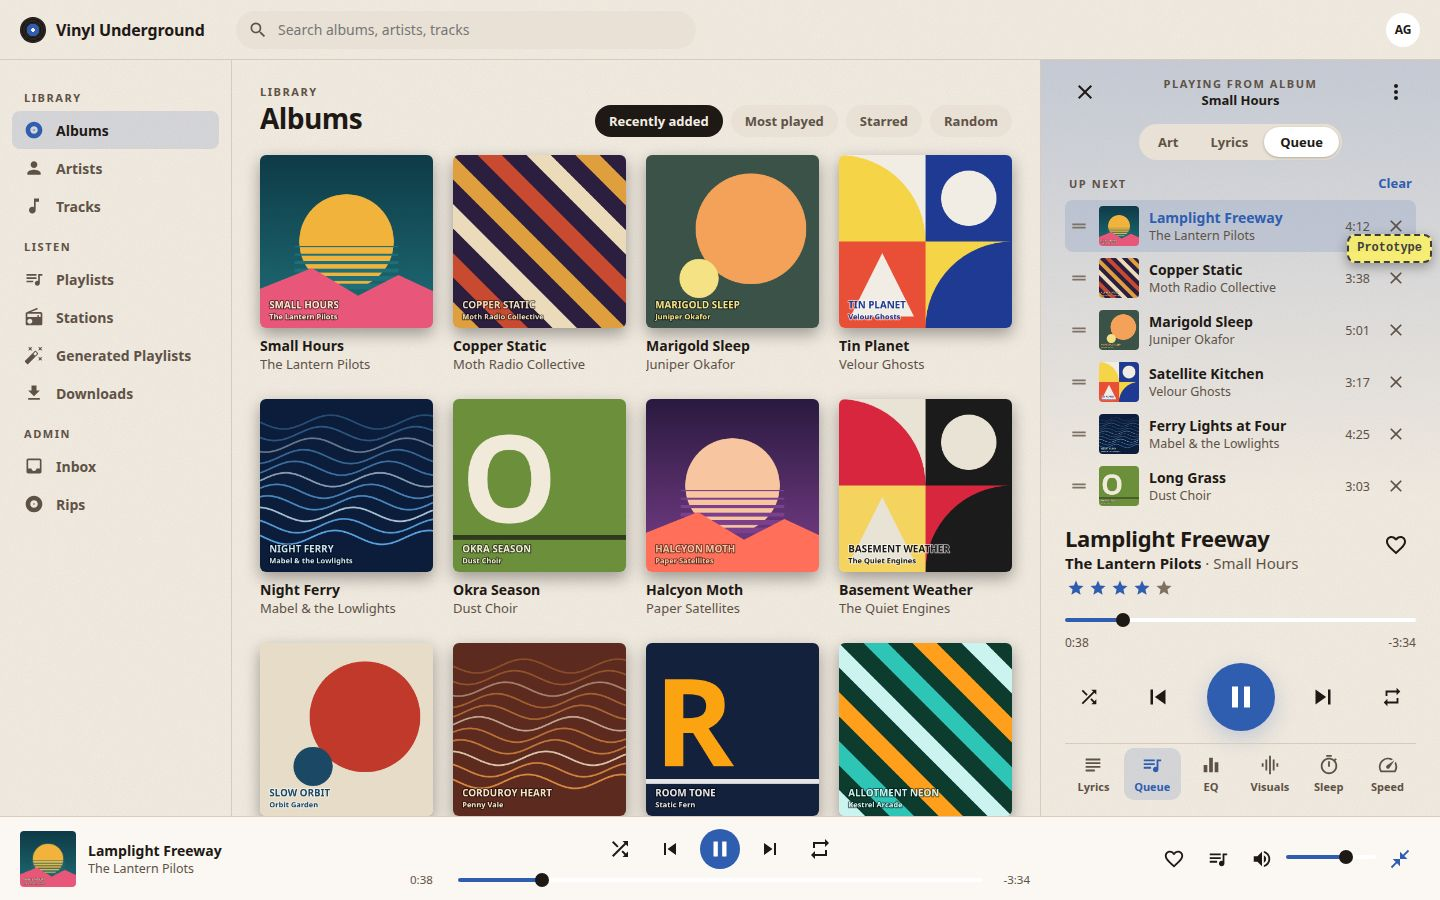
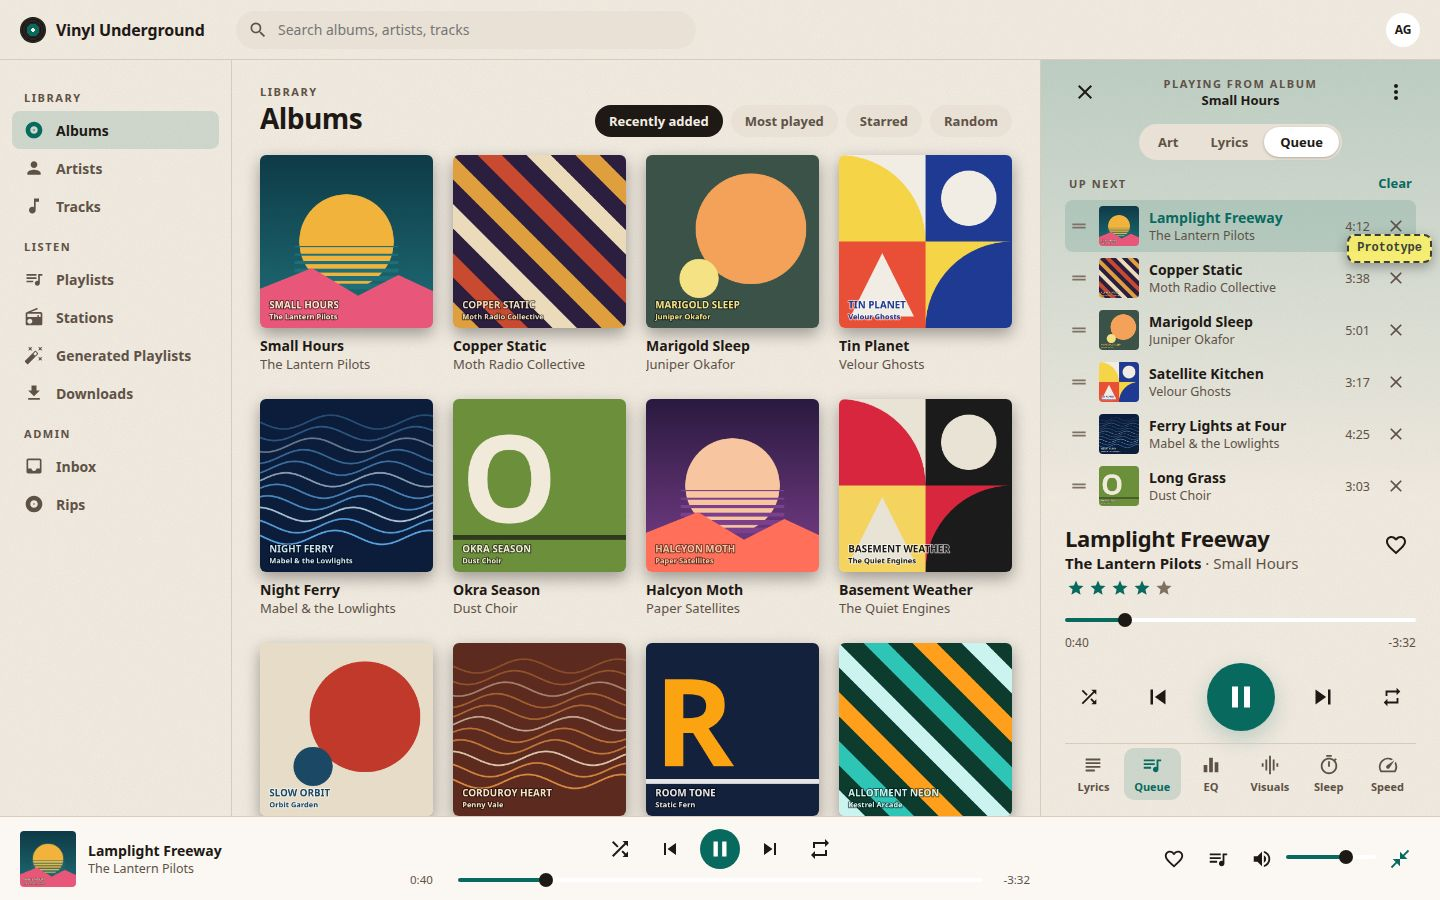
Make Teal the prototype's default accent
Teal (#3EC1B0 dark, #086A5F light) replaces Vermilion as the default,
chosen in review, and is now first in the swatches. Vermilion stays as
a choice. The README table and screenshots are updated.

diff --git a/prototypes/ui-refresh/app.js b/prototypes/ui-refresh/app.js
@@ -63,12 +63,13 @@
   // ---------- Palette ----------
   // Fixed accents: [dark-variant, light-variant]. Each value passes WCAG AA
   // (4.5:1) against its variant's background, and against its on-accent text.
+  // The first accent is the default.
   const ACCENTS = [
+    { id: 'teal', name: 'Teal', dark: '#3EC1B0', light: '#086A5F' },
     { id: 'vermilion', name: 'Vermilion', dark: '#FF5B2E', light: '#B0300F' },
     { id: 'amber', name: 'Amber', dark: '#FF9A1F', light: '#934E00' },
     { id: 'mustard', name: 'Mustard', dark: '#E2B53A', light: '#765A00' },
     { id: 'olive', name: 'Olive', dark: '#9DBB4E', light: '#4A6510' },
-    { id: 'teal', name: 'Teal', dark: '#3EC1B0', light: '#086A5F' },
     { id: 'denim', name: 'Denim', dark: '#6FA3F0', light: '#2F5DB0' },
     { id: 'plum', name: 'Plum', dark: '#C08BF0', light: '#7A3FB0' },
     { id: 'rose', name: 'Rose', dark: '#FF6F91', light: '#B42851' },
@@ -169,7 +170,7 @@
   const state = {
     theme: q.get('theme') === 'light' ? 'light' : 'dark',
     base: Object.prototype.hasOwnProperty.call(DARK_BASES, q.get('base')) ? q.get('base') : 'slate',
-    accent: ACCENTS.some((a) => a.id === q.get('accent')) || q.get('accent') === 'art' ? q.get('accent') : 'vermilion',
+    accent: ACCENTS.some((a) => a.id === q.get('accent')) || q.get('accent') === 'art' ? q.get('accent') : 'teal',
     frame: q.get('frame') === 'desktop' ? 'desktop' : 'phone',
     station: q.get('station') === '1',
     npOpen: q.get('np') !== '0',

diff --git a/prototypes/ui-refresh/styles.css b/prototypes/ui-refresh/styles.css
@@ -8,17 +8,17 @@
 @property --vu-accent {
   syntax: '<color>';
   inherits: true;
-  initial-value: #ff5b2e;
+  initial-value: #3ec1b0;
 }
 @property --vu-accent-soft {
   syntax: '<color>';
   inherits: true;
-  initial-value: rgba(255, 91, 46, 0.16);
+  initial-value: rgba(62, 193, 176, 0.16);
 }
 @property --vu-accent-glow {
   syntax: '<color>';
   inherits: true;
-  initial-value: rgba(255, 91, 46, 0.3);
+  initial-value: rgba(62, 193, 176, 0.3);
 }
 
 :root {
@@ -26,10 +26,10 @@
     Arial, sans-serif;
   --vu-radius: 12px;
   --vu-radius-sm: 6px;
-  --vu-accent: #ff5b2e;
+  --vu-accent: #3ec1b0;
   --vu-on-accent: #0f1216;
-  --vu-accent-soft: rgba(255, 91, 46, 0.16);
-  --vu-accent-glow: rgba(255, 91, 46, 0.3);
+  --vu-accent-soft: rgba(62, 193, 176, 0.16);
+  --vu-accent-glow: rgba(62, 193, 176, 0.3);
   /* "From album art" fades between covers rather than snapping */
   transition:
     --vu-accent 0.7s ease,

diff --git a/prototypes/ui-refresh/README.md b/prototypes/ui-refresh/README.md
@@ -93,11 +93,11 @@ on the cream background.
 
 | Accent                  | Dark      | On it     | vs bg  | Light     | On it     | vs bg  |
 | ----------------------- | --------- | --------- | ------ | --------- | --------- | ------ |
-| Vermilion **(default)** | `#FF5B2E` | `#0F1216` | 6.1:1  | `#B0300F` | `#FFFFFF` | 5.5:1  |
+| Teal **(default)**      | `#3EC1B0` | `#0F1216` | 8.5:1  | `#086A5F` | `#FFFFFF` | 5.6:1  |
+| Vermilion               | `#FF5B2E` | `#0F1216` | 6.1:1  | `#B0300F` | `#FFFFFF` | 5.5:1  |
 | Amber                   | `#FF9A1F` | `#0F1216` | 8.8:1  | `#934E00` | `#FFFFFF` | 5.4:1  |
 | Mustard                 | `#E2B53A` | `#0F1216` | 9.7:1  | `#765A00` | `#FFFFFF` | 5.6:1  |
 | Olive                   | `#9DBB4E` | `#0F1216` | 8.6:1  | `#4A6510` | `#FFFFFF` | 5.7:1  |
-| Teal                    | `#3EC1B0` | `#0F1216` | 8.5:1  | `#086A5F` | `#FFFFFF` | 5.6:1  |
 | Denim                   | `#6FA3F0` | `#0F1216` | 7.3:1  | `#2F5DB0` | `#FFFFFF` | 5.5:1  |
 | Plum                    | `#C08BF0` | `#0F1216` | 7.3:1  | `#7A3FB0` | `#FFFFFF` | 5.7:1  |
 | Rose                    | `#FF6F91` | `#0F1216` | 7.1:1  | `#B42851` | `#FFFFFF` | 5.4:1  |
